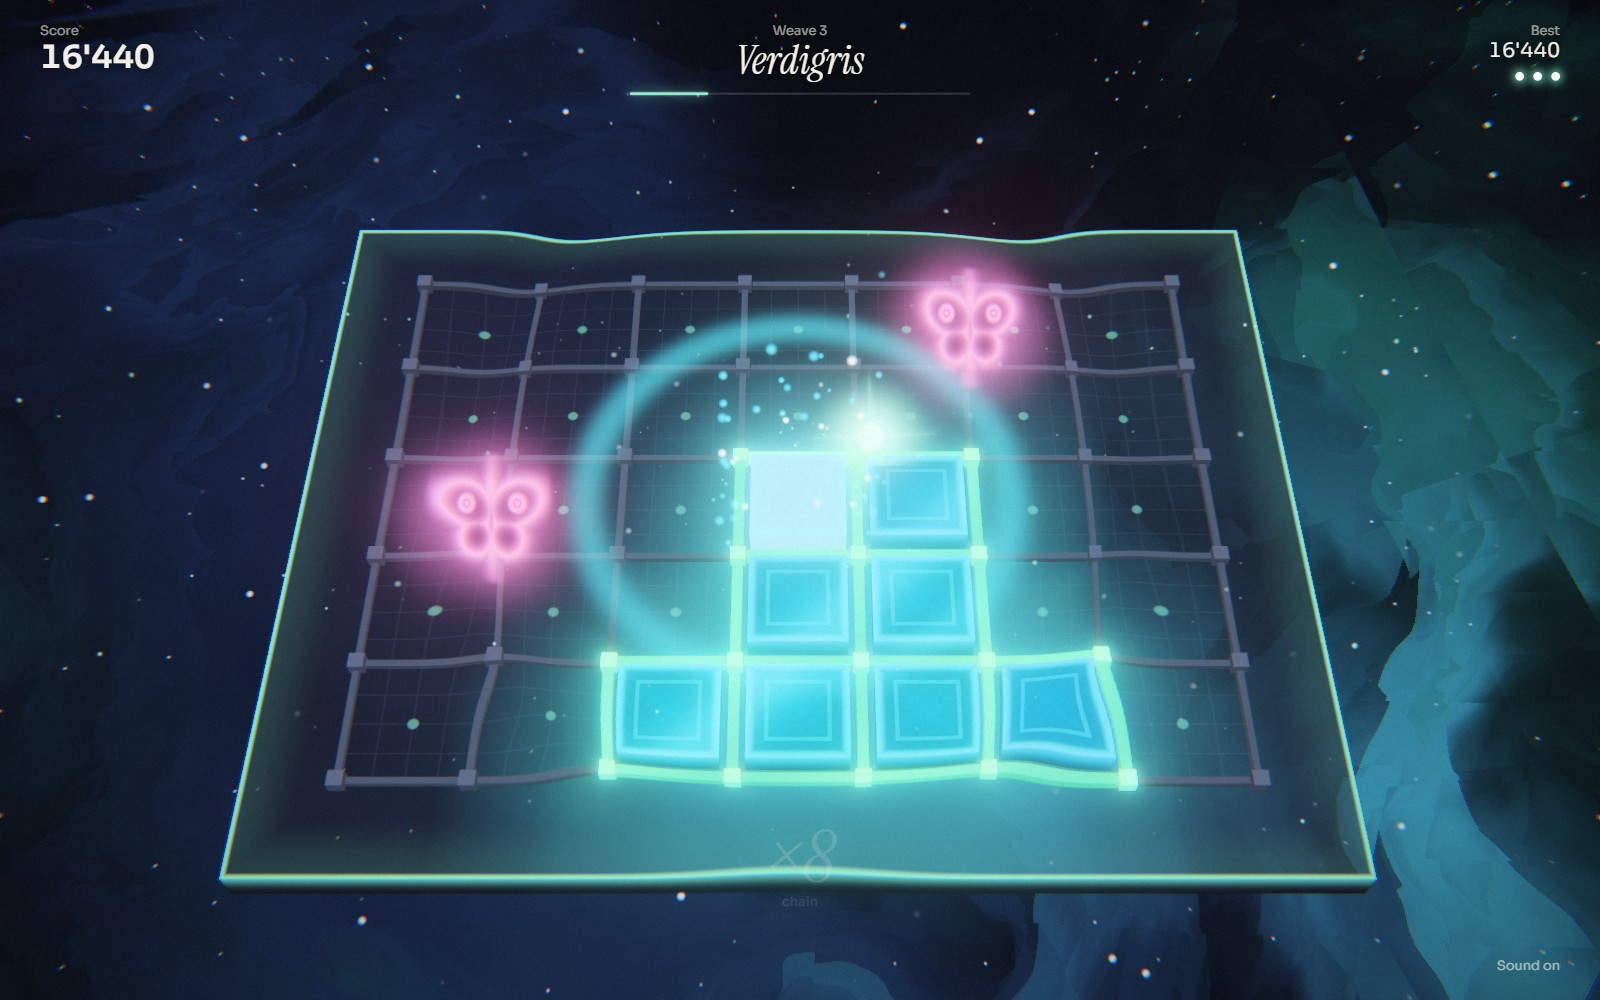
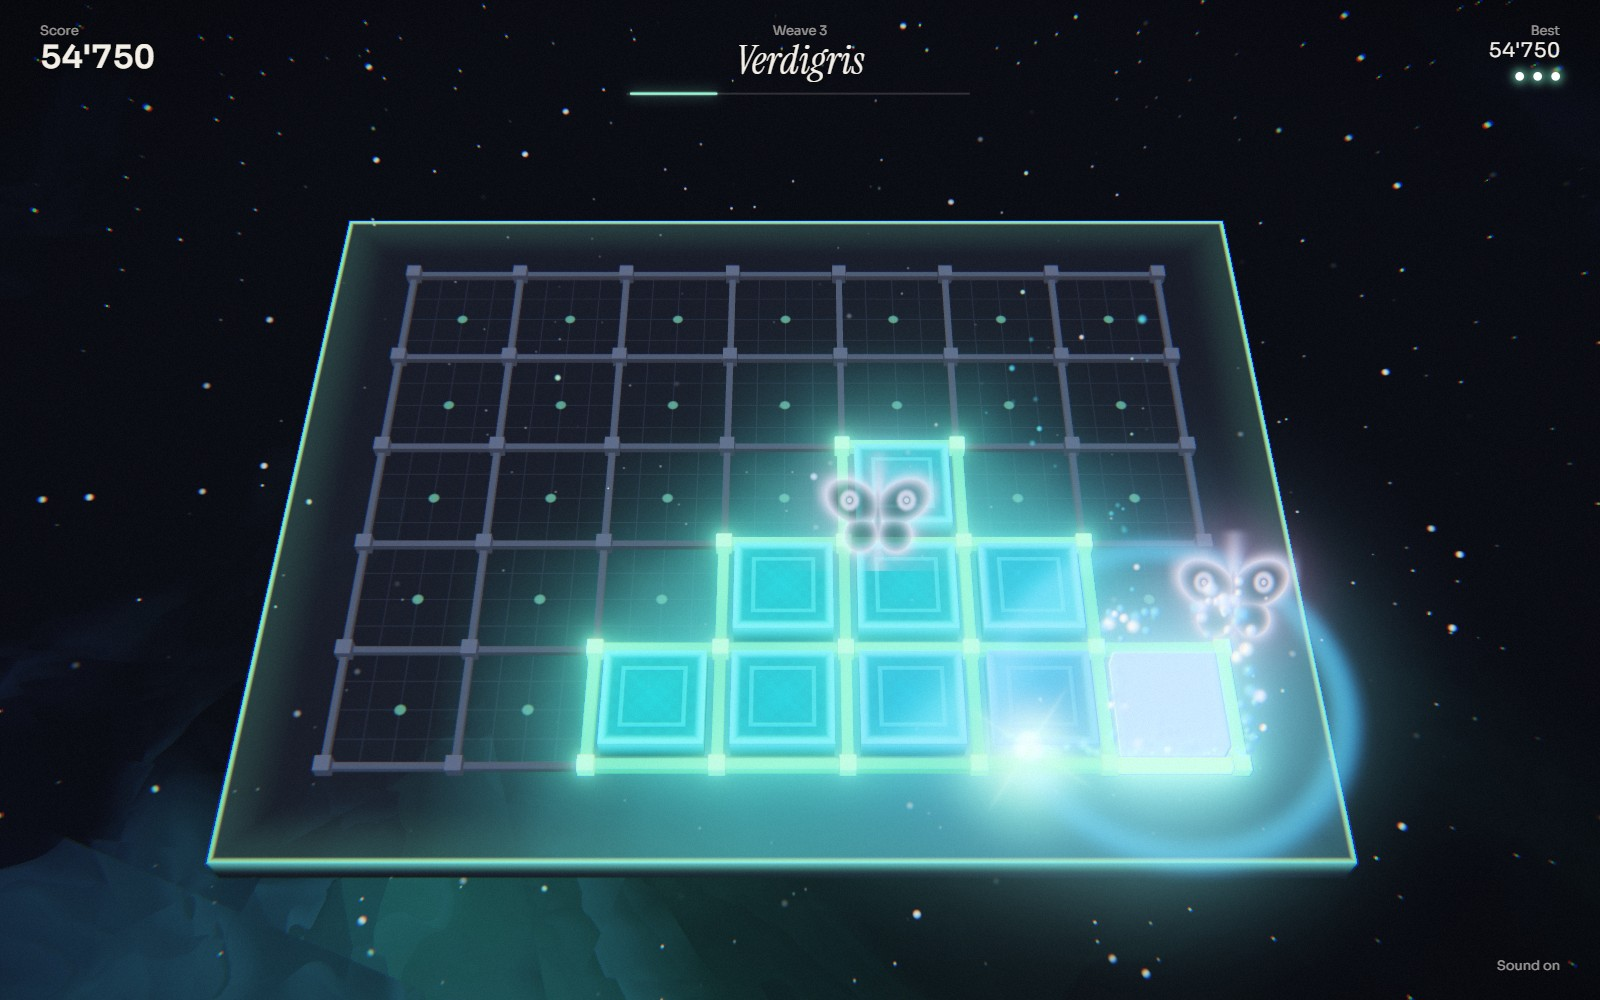
Lightloom 1.3.1: closing a square no longer bends or shakes the picture
- The shockwave ripple, the camera shake and the color fringe are removed when
  a square closes, so the shuttle and the moths stay easy to follow; they
  remain when a spark is lost and in the fireworks after a weave
- The ring of light around a freshly lit square is fainter
- New screenshot without the ripple; descriptions updated on the Claude page,
  the main README and the landing page

diff --git a/Claude/Lightloom.html b/Claude/Lightloom.html
@@ -236,7 +236,7 @@
 <div id="pops"></div>
 
 <section id="title" class="screen show">
-  <p class="t-ver">Version 1.3.0</p>
+  <p class="t-ver">Version 1.3.1</p>
   <button id="scoresBtn" class="t-best" type="button">Best<b id="tBest">0</b><span>High scores</span></button>
   <div class="t-block">
     <h1>Lightloom</h1>
@@ -1279,9 +1279,9 @@ const AudioFX = (function () {
       const px = s === 0 ? u : s === 1 ? u : s === 2 ? -.42 : .42, pz = s === 0 ? -.42 : s === 1 ? .42 : u;
       spark(X + px, 0.15, Z + pz, px * rnd(.5, 2.5), rnd(1.5, 5), pz * rnd(.5, 2.5), rnd(.5, 1.2), rnd(.04, .09), k % 5 ? col : [1, 1, 1], 3, 5);
     }
-    rings.push({ x: X, z: Z, r0: 0.4, r1: 2.3, life: 0.6, max: 0.6, c: col, a: 1.6 });
-    shocks.push({ X, Z, t: 0, dur: 0.7, str: quiet ? 0.5 : 1 });
-    G.shake = Math.max(G.shake, quiet ? 0.1 : 0.35); G.chroma = Math.max(G.chroma, 0.2);
+    // nothing here may bend or move the picture: the player is tracking the shuttle and the moths.
+    // The ring on the ground shows how far the stun reaches.
+    rings.push({ x: X, z: Z, r0: 0.4, r1: 2.3, life: 0.6, max: 0.6, c: col, a: 0.7 });
     let stunned = false;
     for (const m of G.moths) if (m.wake <= 0 && Math.hypot(m.x - (i + .5), m.y - (j + .5)) < 2.0) { m.stun = 1.8; stunned = true; burst(wx(m.x), .5, wz(m.y), [.6, .75, 1], 14, 2); }
     if (!quiet) {

diff --git a/Claude/js/game.js b/Claude/js/game.js
@@ -348,9 +348,9 @@
       const px = s === 0 ? u : s === 1 ? u : s === 2 ? -.42 : .42, pz = s === 0 ? -.42 : s === 1 ? .42 : u;
       spark(X + px, 0.15, Z + pz, px * rnd(.5, 2.5), rnd(1.5, 5), pz * rnd(.5, 2.5), rnd(.5, 1.2), rnd(.04, .09), k % 5 ? col : [1, 1, 1], 3, 5);
     }
-    rings.push({ x: X, z: Z, r0: 0.4, r1: 2.3, life: 0.6, max: 0.6, c: col, a: 1.6 });
-    shocks.push({ X, Z, t: 0, dur: 0.7, str: quiet ? 0.5 : 1 });
-    G.shake = Math.max(G.shake, quiet ? 0.1 : 0.35); G.chroma = Math.max(G.chroma, 0.2);
+    // nothing here may bend or move the picture: the player is tracking the shuttle and the moths.
+    // The ring on the ground shows how far the stun reaches.
+    rings.push({ x: X, z: Z, r0: 0.4, r1: 2.3, life: 0.6, max: 0.6, c: col, a: 0.7 });
     let stunned = false;
     for (const m of G.moths) if (m.wake <= 0 && Math.hypot(m.x - (i + .5), m.y - (j + .5)) < 2.0) { m.stun = 1.8; stunned = true; burst(wx(m.x), .5, wz(m.y), [.6, .75, 1], 14, 2); }
     if (!quiet) {

diff --git a/index.html b/index.html
@@ -38,7 +38,7 @@
   <p class="lede">Three arcade games inspired by the 1986 DOS game Gapper. Run along the lines of a grid, color every one and stay ahead of the pursuer. Each version below was built by a different AI assistant from the same brief.</p>
   <div class="grid">
     <a class="card claude" href="Claude/index.html">
-      <img src="Claude/screenshot.jpg" width="800" height="500" alt="Lightloom in play: eight lit squares of blue-green glass on a loom floating in a nebula, the shuttle at the center of a shockwave and two pink moths closing in">
+      <img src="Claude/screenshot.jpg" width="800" height="500" alt="Lightloom in play: nine lit squares of blue-green glass on a loom floating in a nebula, the shuttle beside a freshly lit square and two moths stunned pale">
       <h2>Lightloom</h2><p>Built with Claude. Weave threads of light on a floating loom while moths hunt you.</p><span class="tag">Play Lightloom</span>
     </a>
     <a class="card" href="ChatGPT/index.html">

diff --git a/Claude/index.html b/Claude/index.html
@@ -236,7 +236,7 @@
 <div id="pops"></div>
 
 <section id="title" class="screen show">
-  <p class="t-ver">Version 1.3.0</p>
+  <p class="t-ver">Version 1.3.1</p>
   <button id="scoresBtn" class="t-best" type="button">Best<b id="tBest">0</b><span>High scores</span></button>
   <div class="t-block">
     <h1>Lightloom</h1>

diff --git a/Claude/README.md b/Claude/README.md
@@ -13,7 +13,7 @@ image or audio files and no libraries.
 The version number is shown on the title screen. The [changelog](CHANGELOG.md) lists
 what changed in each version.
 
-![Lightloom in play on the third weave, Verdigris: eight lit squares in blue-green glass, the shuttle at the center of a shockwave, and two pink moths closing in](screenshot.jpg)
+![Lightloom in play on the third weave, Verdigris: nine lit squares in blue-green glass, the shuttle beside a freshly lit square with a faint ring of light around it, and two moths stunned pale](screenshot.jpg)
 
 ## Run it
 
@@ -283,6 +283,11 @@ unwoven thread touches the knot, a breadth-first search finds the nearest one.
 
 - With `prefers-reduced-motion`, screen shake, shockwaves, the chromatic flash and
   the glitch are reduced to a quarter and the title animation is switched off.
+- Closing a square never bends or moves the picture, because the player is following
+  the shuttle and the moths at that moment. It is marked on the board only: sparks, a
+  flash of the square and a faint ring of light as wide as the stun. The screen-wide
+  effects (shockwave distortion, shake, color fringe) are kept for moments when play
+  has stopped: losing a spark and the fireworks after a weave.
 - The game pauses when the window loses focus.
 - A run given up with "End this run" goes through the same game-over step as a lost
   one, so it is scored, listed and sent to the shared list in the same way. "Title

diff --git a/README.md b/README.md
@@ -14,7 +14,7 @@ To play offline, save a standalone file with the `.html` extension and open it i
 
 ## Claude version
 
-![Lightloom in play on the third weave. Eight squares of blue-green glass are lit, the shuttle sits at the center of a shockwave, and two pink moths close in along the unwoven threads.](Claude/screenshot.jpg)
+![Lightloom in play on the third weave. Nine squares of blue-green glass are lit, the shuttle sits beside a freshly lit square with a faint ring of light around it, and two moths are stunned pale.](Claude/screenshot.jpg)
 
 Use the arrow keys or WASD to steer the shuttle. Run the full length of a thread to weave it, and close all four sides of a square to light it. A freshly lit square stuns the moths close by. On a touchscreen, swipe. The title screen also offers first-person steering, where the left and right keys turn the shuttle. The ten best scores are kept in the browser, with initials, and a second list is shared between all players. When a game ends you can start again or go back to the title screen, and a paused game can be ended early with its score kept.
 

diff --git a/Claude/CHANGELOG.md b/Claude/CHANGELOG.md
@@ -6,6 +6,16 @@ on the game's title screen. Each version is also a
 standalone game of that version attached. The numbering rules are in
 [VERSIONING.md](../VERSIONING.md).
 
+## 1.3.1 (2026-11-21)
+
+### Changed
+
+- Closing a square no longer bends or shakes the picture. The shockwave ripple, the
+  camera shake and the color fringe are gone at that moment, so the shuttle and the
+  moths stay easy to follow.
+- The ring of light around a freshly lit square, which shows how far the stun reaches,
+  is fainter.
+
 ## 1.3.0 (2026-11-21)
 
 ### Added
